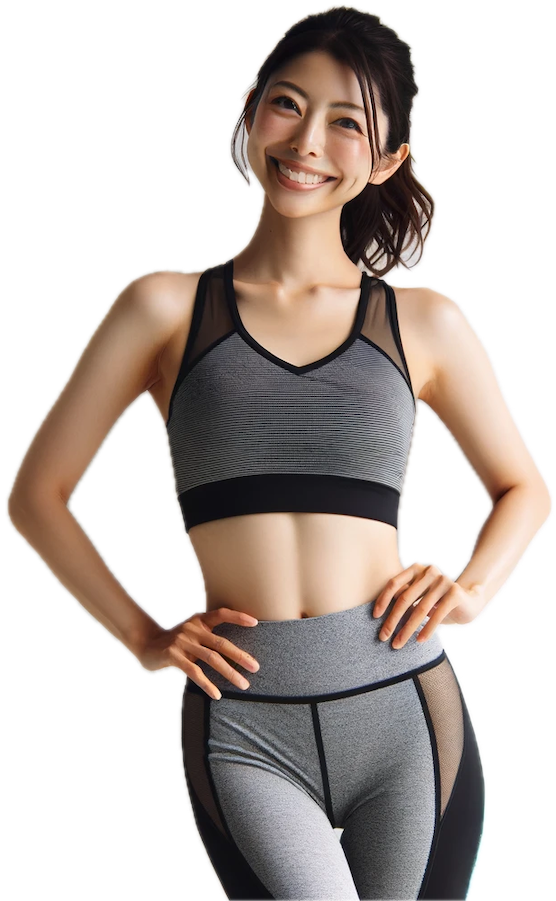
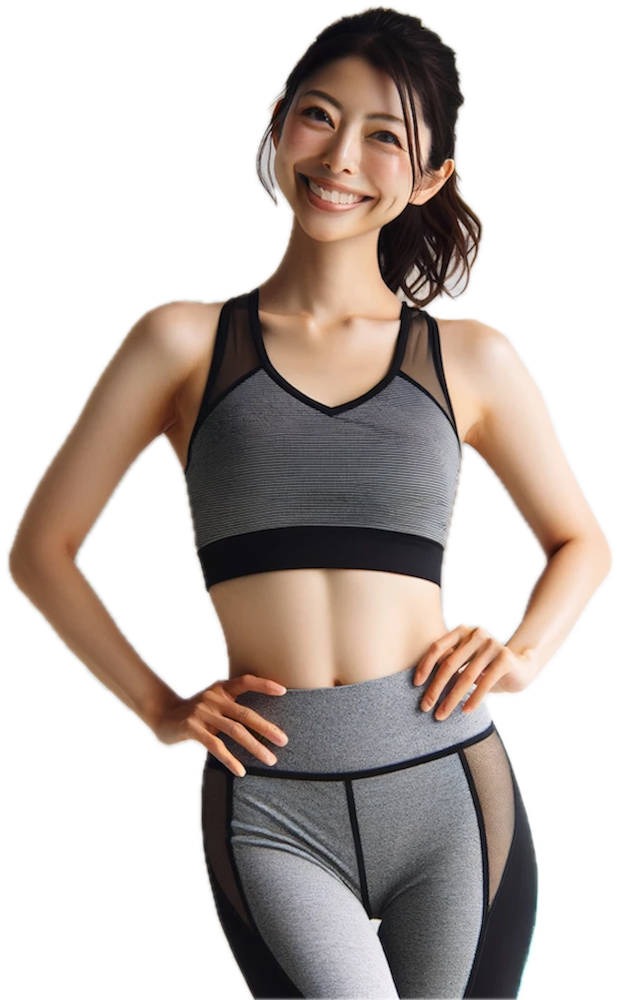
Testimonials img resize (bug)

Changed region(s): [[0.4281, 0.4351, 0.7338, 0.5283], [0.6421, 0.0932, 0.6727, 0.1243], [0.4281, 0.1243, 0.4586, 0.1554]]

diff --git a/src/utils/data/reviews.js b/src/utils/data/reviews.js
@@ -2,26 +2,22 @@ import person1 from "utils/img/people/person1.png";
 import person2 from "utils/img/people/person2.png";
 import person3 from "utils/img/people/person3.png";
 
-const defPosition = "w-[15rem] absolute z-[5] ";
 
 const reviews = {
   person1: {
     name: "Jackson Taylor",
     text: "Absolutely thrilled with BKK Gym! Great equipment, friendly staff, and a variety of classes. It's a motivating environment for all fitness levels. Highly recommend for anyone looking to improve their fitness!",
     img: person1,
-    position: defPosition + "top-[2.4rem]",
   },
   person2: {
     name: "Yumi Nakamura",
     text: "This gym is truly wonderful! With its state-of-the-art facilities and friendly staff, I can recommend it to people of all levels. Personally, I love the Body Combat classes.",
     img: person2,
-    position: defPosition + "top-[5.69rem]",
   },
   person3: {
     name: "Michael Thompson",
     text: "Joining this gym has been a game-changer for my fitness journey. The trainers are incredibly knowledgeable and supportive, and the equipment is always top-notch. I've seen a remarkable improvement in my strength and endurance since I started. Highly recommend!",
     img: person3,
-    position: defPosition + "top-[2.2rem]",
   },
 };
 

diff --git a/src/components/homeComp/Home.Testimonials/Testimonials.jsx b/src/components/homeComp/Home.Testimonials/Testimonials.jsx
@@ -4,14 +4,10 @@ import reviews from "utils/data/reviews";
 import { useDispatch, useSelector } from "react-redux";
 import { next, prev } from "features/Redux/reducers/reviewSlice";
 
-
-
 export default function Testimonials() {
-
-  const dispatch = useDispatch()
+  const dispatch = useDispatch();
   const review = useSelector((state) => state.review);
 
-  
   return (
     <div class="flex justify-center items-center  bg-white  my-6">
       <div class="flex flex-col common-wrapper items-center gap-8  h-[100vh] py-2">
@@ -25,7 +21,7 @@ export default function Testimonials() {
             <div>
               <div class="flex relative items-center justify-center left-4">
                 <img
-                  class={reviews["person" + review].position}
+                  class="w-[15rem] absolute z-[5] top-[2.4rem]"
                   src={reviews["person" + review].img}
                 ></img>
                 <div class=" w-[20rem] h-[30rem]  bg-red-800 rounded-tr-[15rem]" />

diff --git a/src/style/costomClass.css b/src/style/costomClass.css
@@ -212,3 +212,6 @@
 .contact-page-text {
   color: #4b5563;
 }
+
+
+
